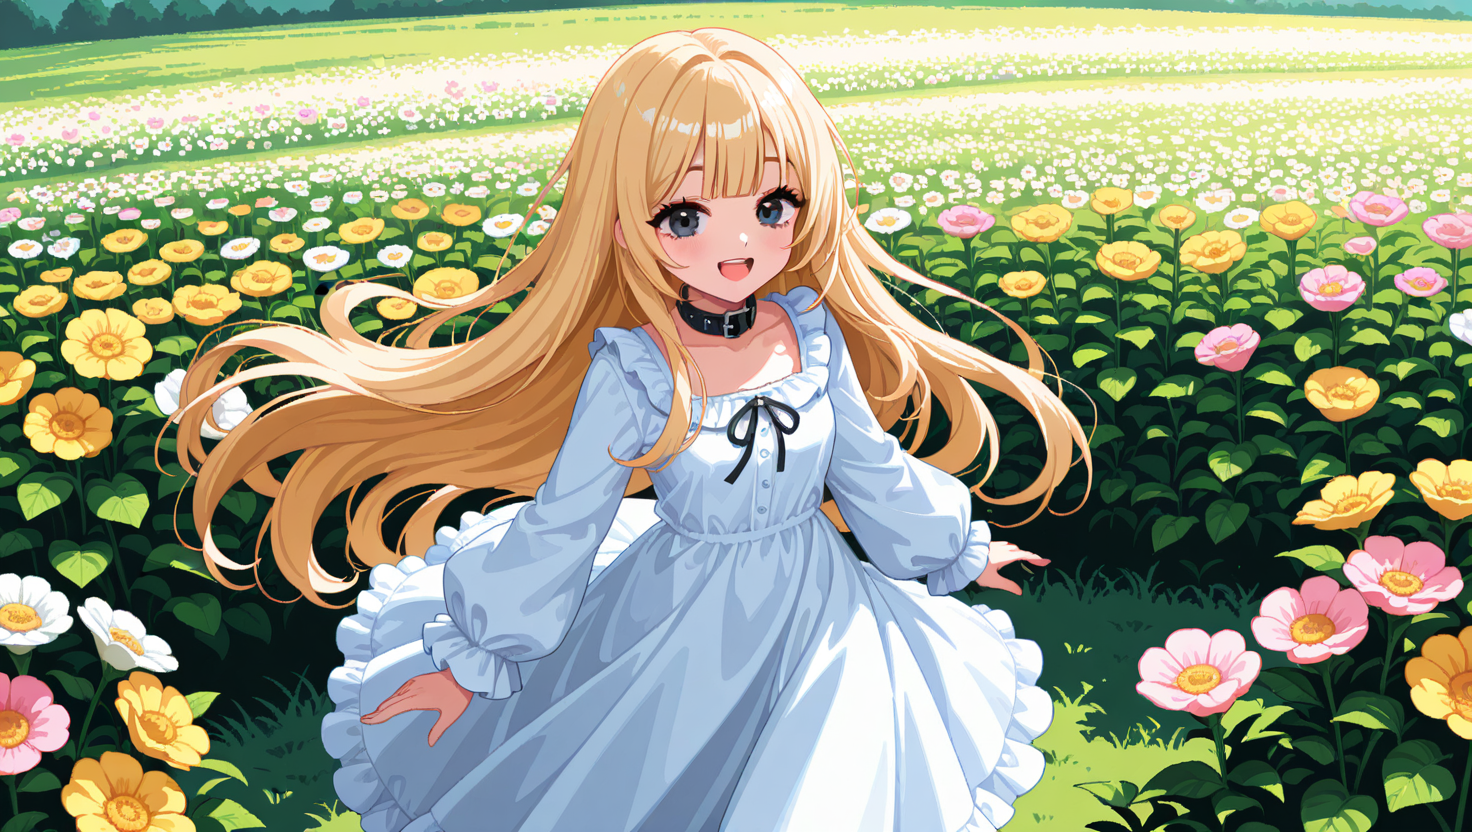
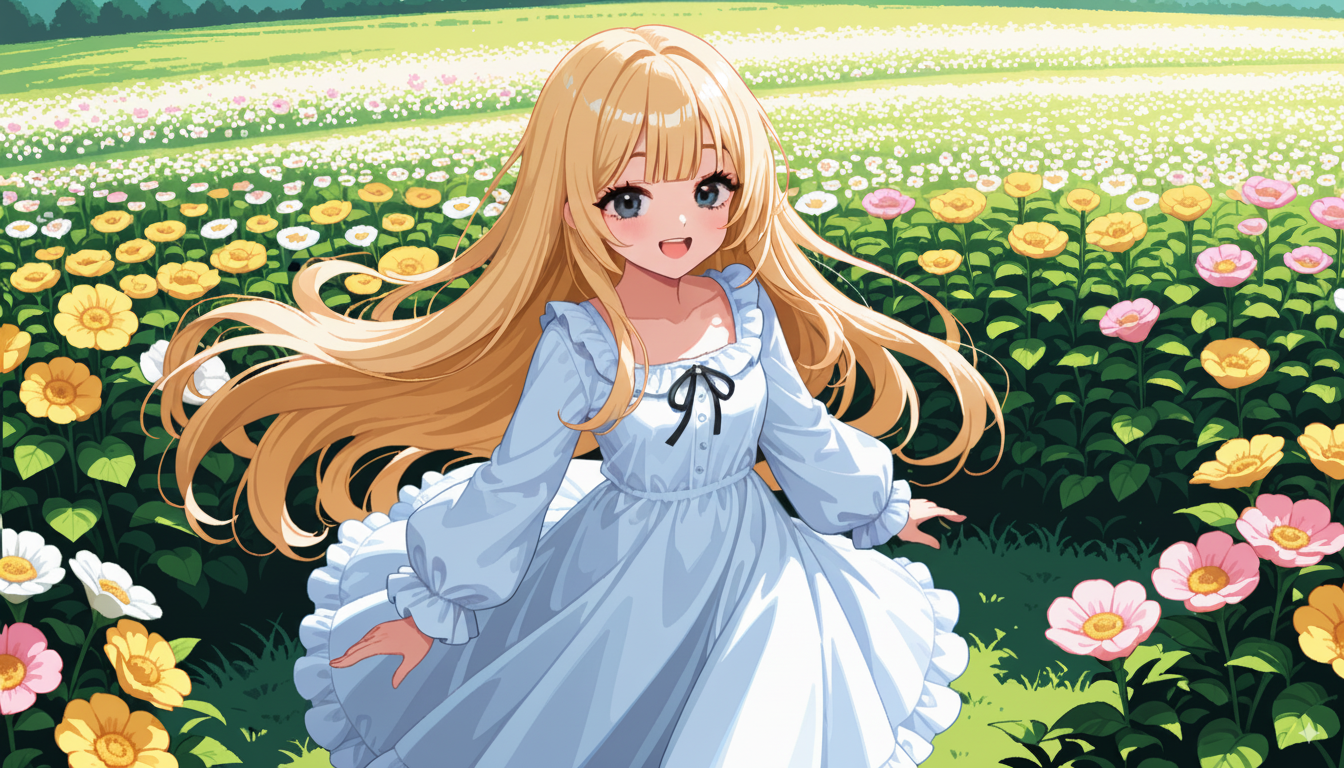
[feat] 로딩 이미지 변경

diff --git a/Assets/Programming/SJL/Scripts/SoundManager.cs b/Assets/Programming/SJL/Scripts/SoundManager.cs
@@ -55,12 +55,14 @@ namespace SJL
         public void SetMusicVolume(float sliderValue)
         {
             float dB = Mathf.Log10(Mathf.Max(sliderValue, 0.0001f)) * 20f;
-            audioMixer.SetFloat("MusicVolume", dB);
+            audioMixer.SetFloat("MusicVolume", dB); 
+            Debug.Log($"SetMusicVolume: value={sliderValue}, dB={dB}");
         }
         public void SetSFXVolume(float sliderValue)
         {
             float dB = Mathf.Log10(Mathf.Max(sliderValue, 0.0001f)) * 20f;
             audioMixer.SetFloat("SfxVolume", dB);
+            Debug.Log($"SetSfxVolume: value={sliderValue}, dB={dB}");
         }
 
         // 배경음 변경/재생
